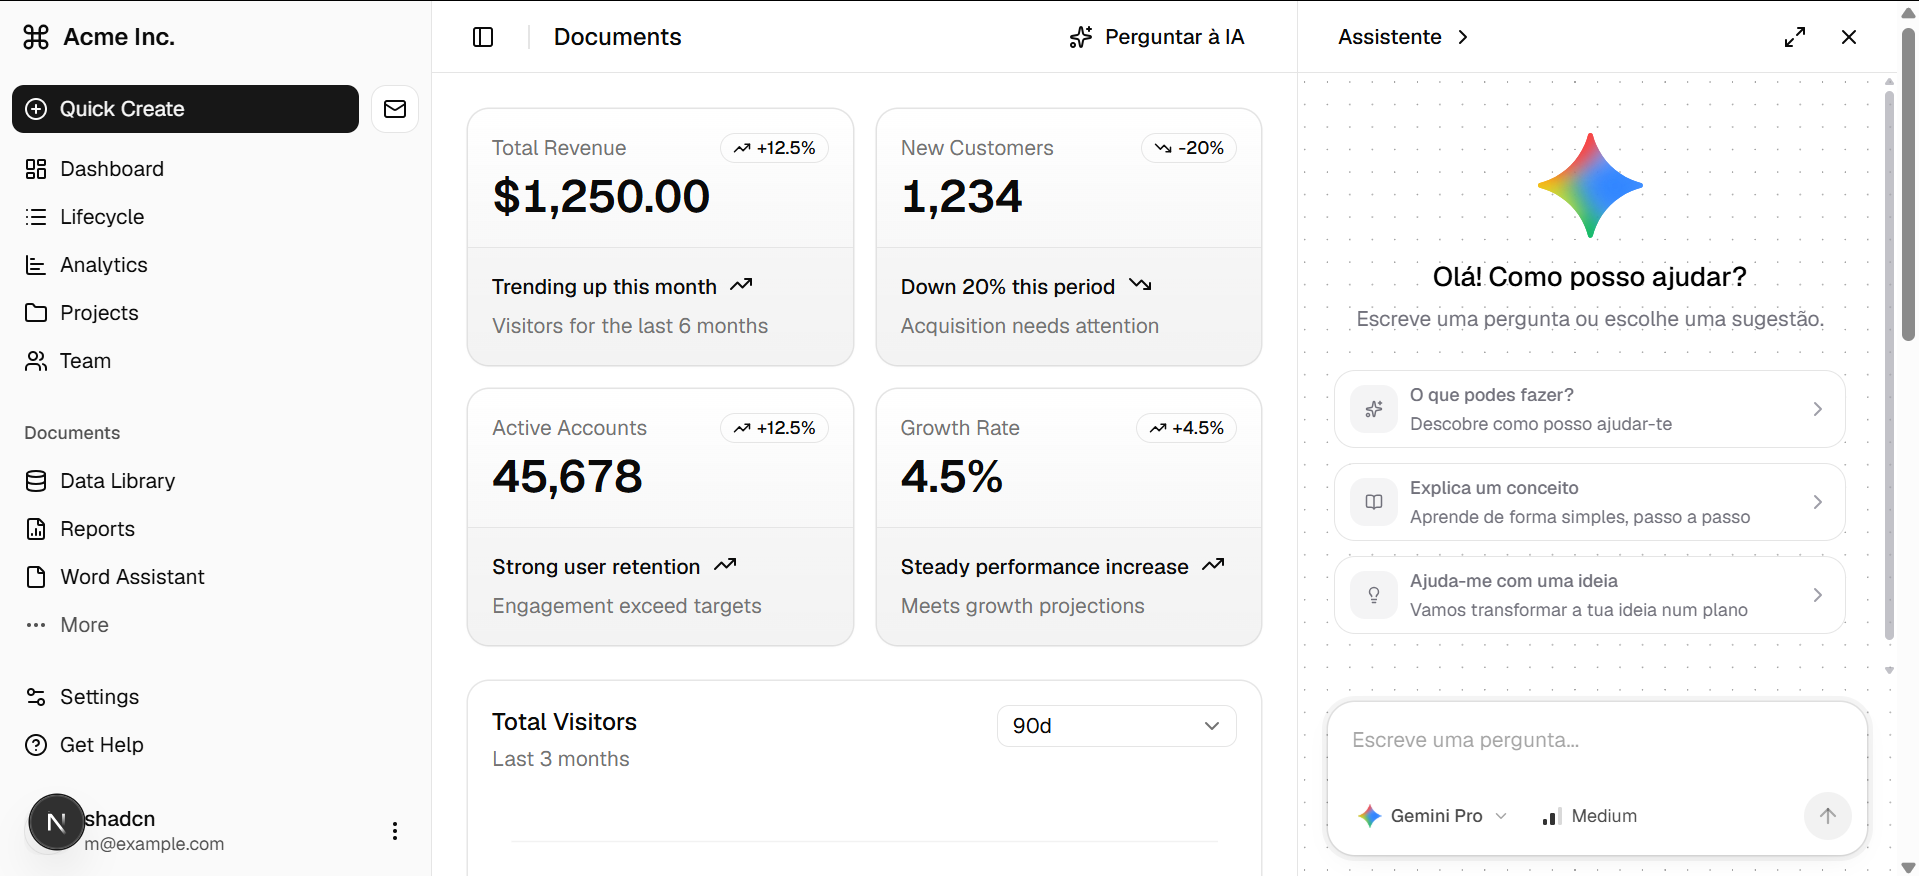
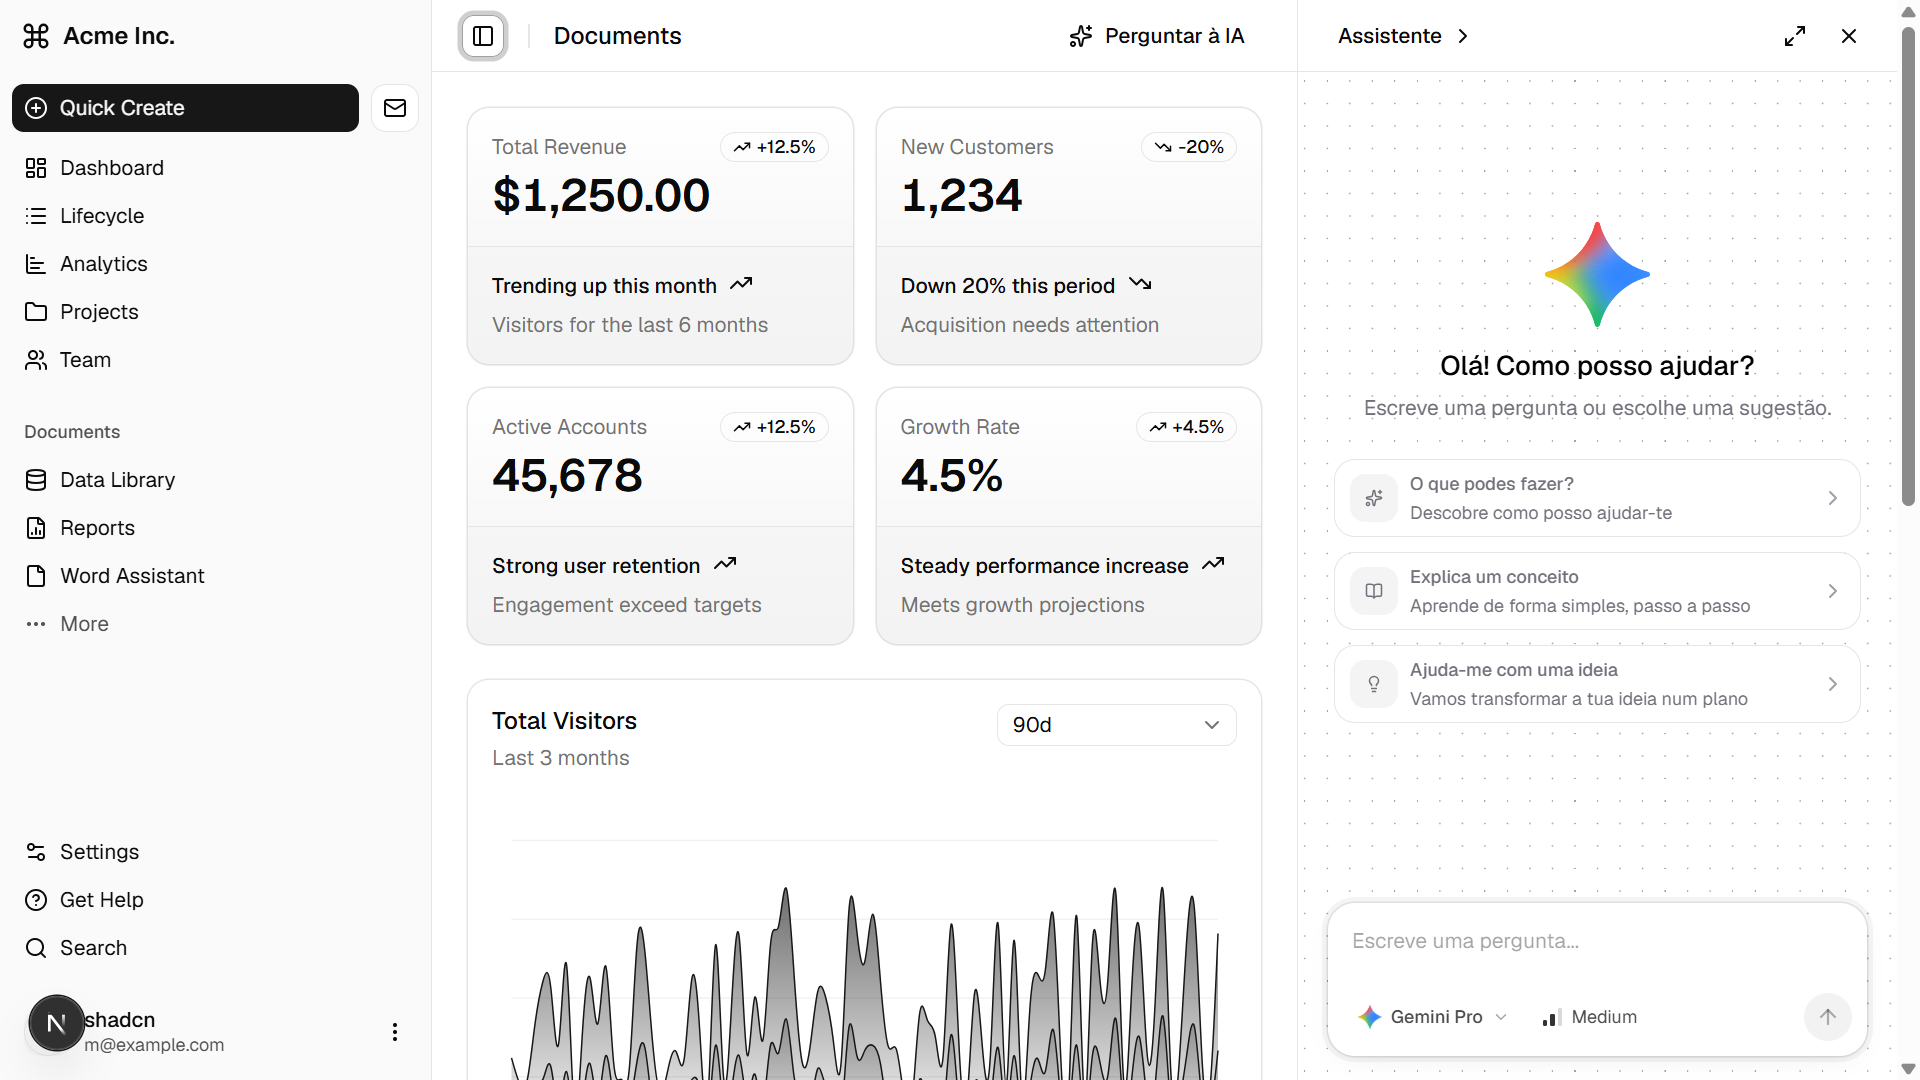
img_redeme-md2

diff --git a/README.md b/README.md
@@ -1,4 +1,4 @@
-<img src="./components/chat-ia/imgWebChat.png" width="100%" />
+<img src="./components/chat-ia/imgWebChat.png" width="100%" title="ChatIA Component"/>
 
 ## Prompt para copiar e colar no teu agente de programação
 
